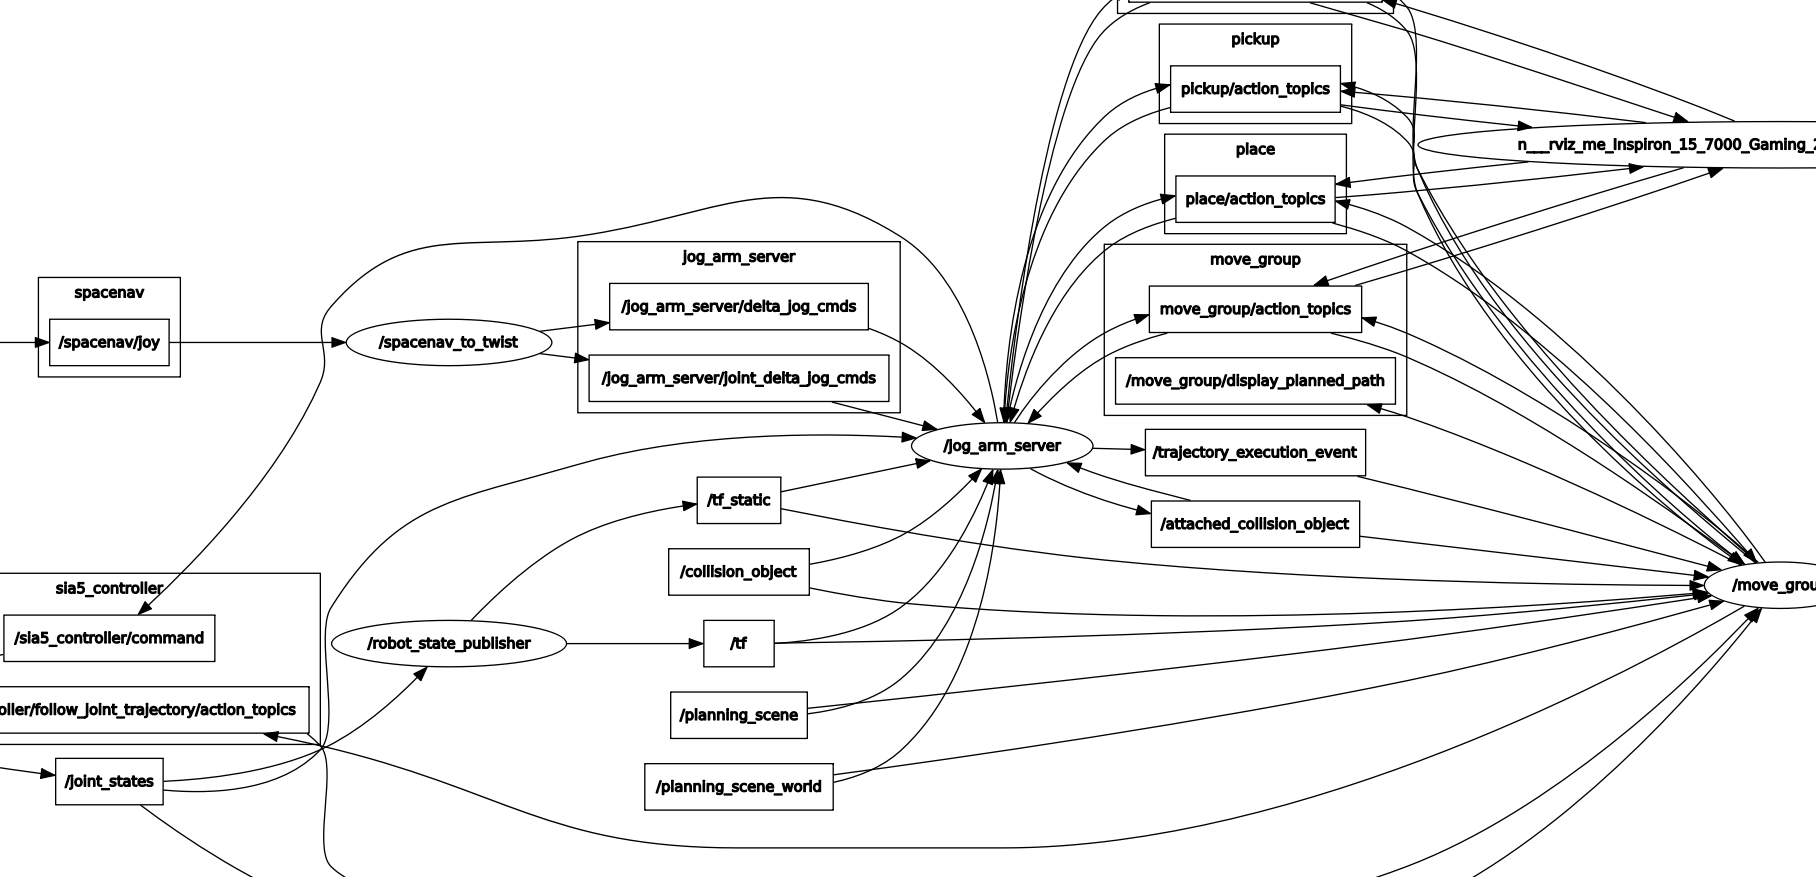
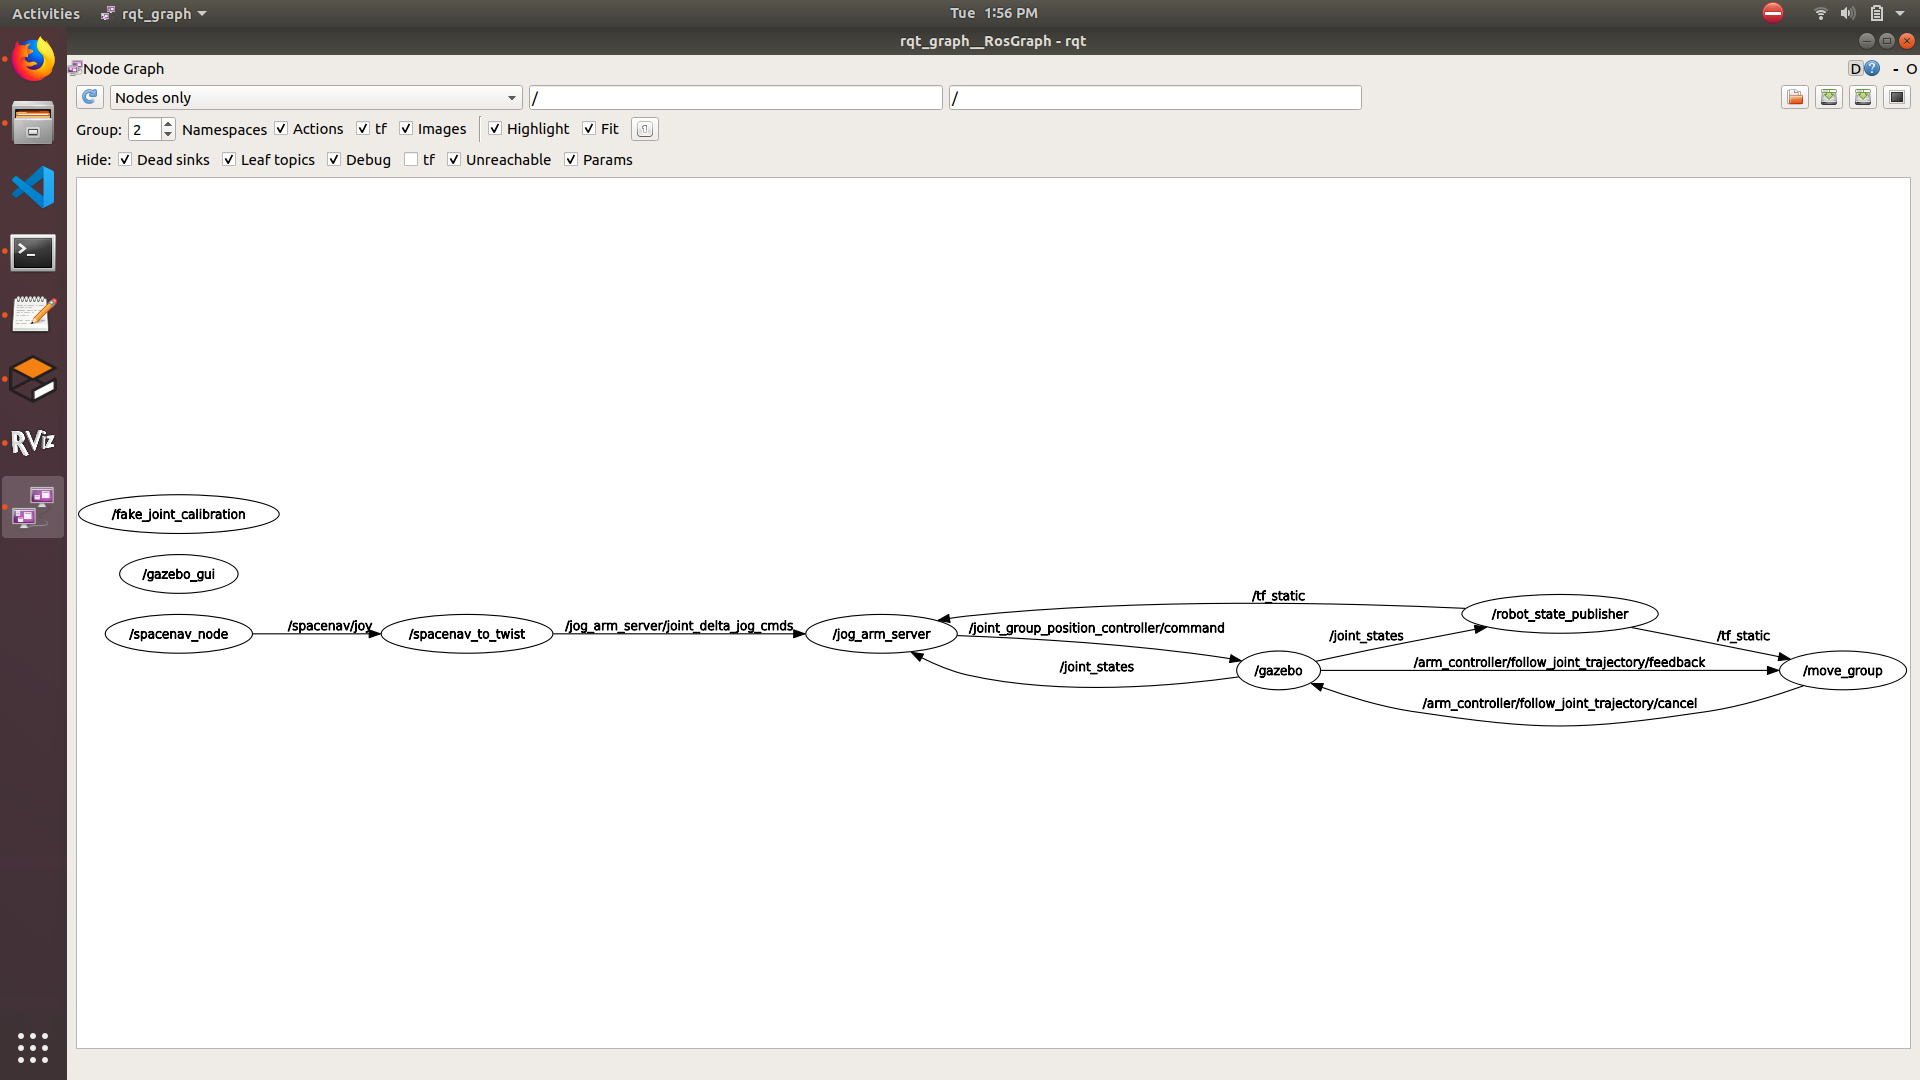
Update rqt_graph and replace sia5 in the text

diff --git a/doc/arm_jogging/arm_jogging_tutorial.rst b/doc/arm_jogging/arm_jogging_tutorial.rst
@@ -97,7 +97,7 @@ And switch to the desired controller with: ::
 
 Jogging may work on other robots that have a different control scheme but there is no guarantee. It has been tested heavily on UR robots using the [ur_modern_driver](https://github.com/ros-industrial/ur_modern_driver). The jogger currently does not limit joint jerk so may not be compatible with most heavy industrial robots.
 
-The jogger can publish ``trajectory_msgs/JointTrajectory`` or ``std_msgs/Float64MultiArray`` message types. This is configured in a yaml file (see ``config/sia5_simulated_config.yaml`` for an example).
+The jogger can publish ``trajectory_msgs/JointTrajectory`` or ``std_msgs/Float64MultiArray`` message types. This is configured in a yaml file (see ``config/ur_simulated_config.yaml`` for an example).
 
 ROS Signals
 -----------
@@ -105,15 +105,13 @@ An `rqt_graph` of the jogger is shown below (Enlarge by clicking it). Most of th
 
 - **spacenav_to_twist** node: Converts incoming commands from the joystick to Cartesian commands or joint angle commands, depending on which buttons are pressed.
 
-- **tf**: This topic carries ROS coordinate frame information. The jogger uses it to transform commands from the joystick's frame of reference to the robot's frame of reference. These frames are selected in ``config/sia5_simulated_config.yaml``.
+- **tf**: This topic carries ROS coordinate frame information. The jogger uses it to transform commands from the joystick's frame of reference to the robot's frame of reference. These frames are selected in ``config/ur_simulated_config.yaml``.
 
 - **joint_states**: The jogger uses this joint information for calculations.
 
 - **move_group**: The jogger uses the MoveIt! move_group node to help with some calculations and parse things like joint limits.
 
-- **sia5_controller/command**: This is the outgoing command that causes the robot to move.
-
-- **planning_scene**: If collision detection is enabled, the jogger should halt before colliding with obstacles in the planning scene.
+- **joint_group_position_controller/command**: This is the outgoing command that causes the robot to move.
 
 .. image:: jogging_rqt_graph.png
    :width: 700px
